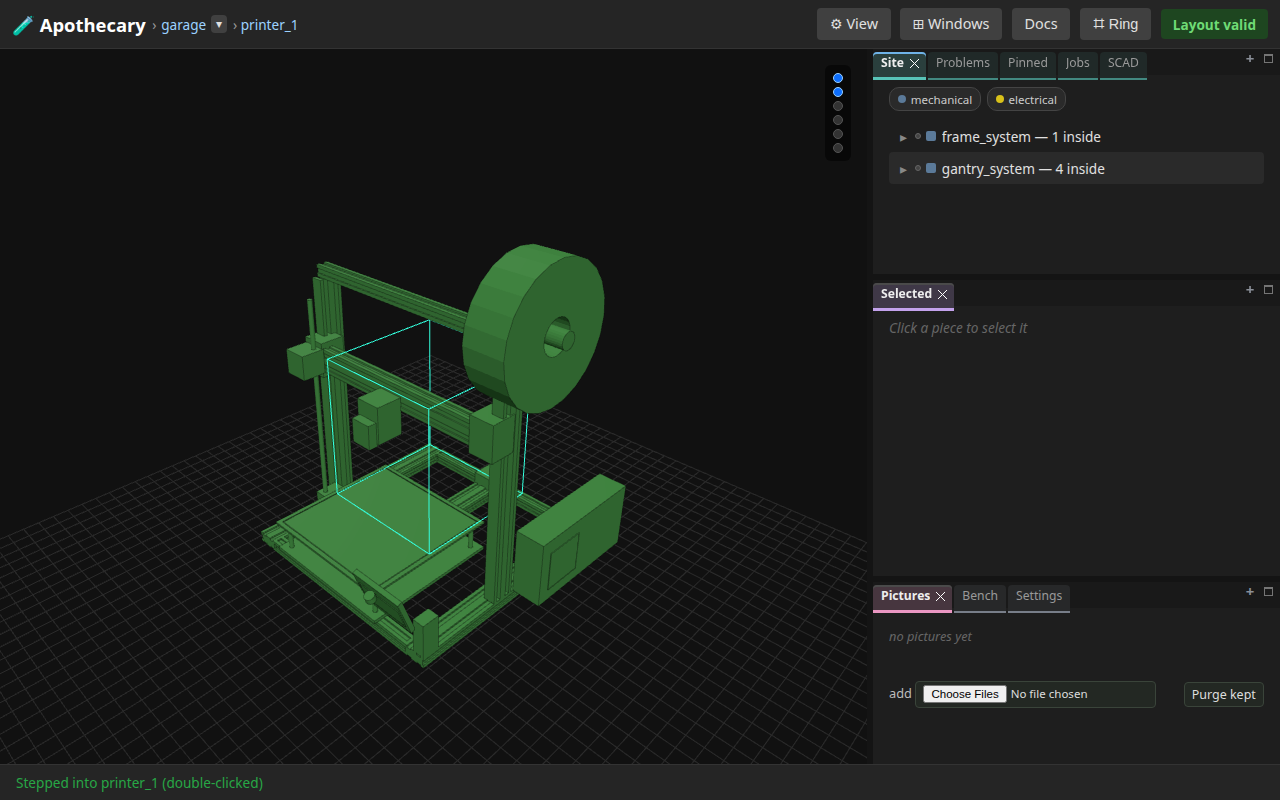
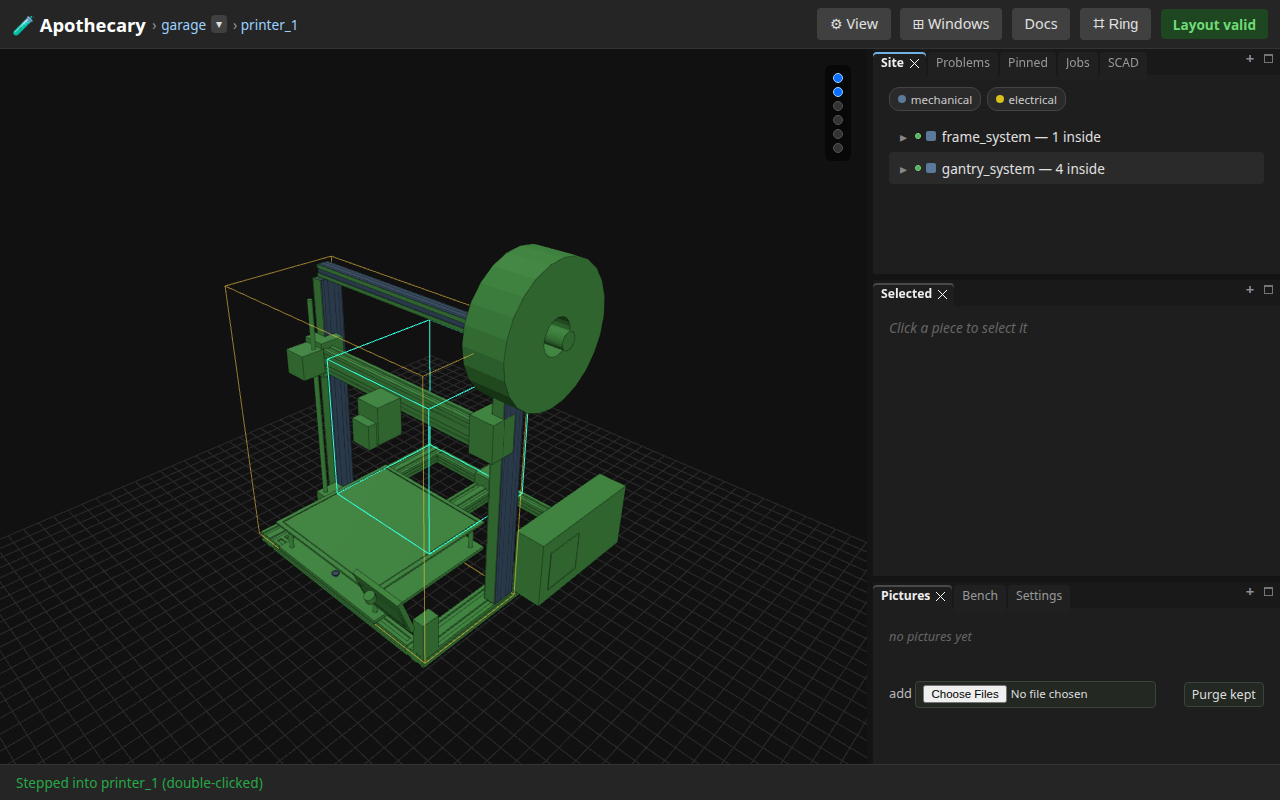
A machine stepped into draws its pieces inside its part, and a pick takes a piece before the part
Stepped into, a machine was its part alone: printer_1's frame_system and
gantry_system were Site's rows and nothing in the world, so a double-click on
the electronics box hit the part and said "Already inside printer_1", and the
category chips at that level changed nothing, since currentRenderNodes
returned the machine before looking at its children.

currentRenderNodes now draws the level's own part first, whole and without an
outline as before (isLevelsOwn), and then the focus's children as any level
draws them, honouring expandedCategories. The pieces sit inside the part's
envelope, so raycastPick lets the level's own part give way to a node of the
level further along the same ray; the part answers only where no piece is
behind it. Click, double-click, the middle-of-view step in, the drop and the
ring all ask raycastPick, so all of them follow. The view still frames the
machine's whole, since its pieces lie inside it. "Already inside" now names
the pieces a double-click takes instead of sending the reader to Site.

tests/e2e/test_viewer.py holds it. Stepped into each machine the level draws
the part, the same mesh the garage drew, and its two pieces, each outlined,
framed on the machine; a click where nothing of it is behind selects the
part. A new test stands at printer_1: the mechanical chip draws what its
pieces hold (the mainboard, the posts) with the part kept, and a double-click
where the printer's surface is nearest and frame_system is behind it steps
[…]

diff --git a/tests/e2e/test_viewer.py b/tests/e2e/test_viewer.py
@@ -251,15 +251,42 @@ MACHINES = [
 ]
 
 
+# Whether the view is framed on `key`'s whole: the point it turns about is the middle
+# of the piece's box.
+FRAMED_ON = """(key) => {
+    const v = window.fractalViewer, b = v.boundsFor(v.renderNodeByKey[key], 0);
+    const middle = v.sceneAt(...b.min.map((low, i) => (low + b.max[i]) / 2));
+    return middle.distanceTo(v.orbitControls.target) < 1;
+}"""
+
+# Where on the page the nearest surface under the pointer is `part`'s and the viewer's
+# pick answers `piece`, a piece behind it on the same ray: the first such point of a
+# grid over the canvas.
+BEHIND_THE_PART = """async ({ part, piece }) => {
+    const v = window.fractalViewer, r = v.canvas.getBoundingClientRect();
+    await v.waveDone;
+    for (let i = 1; i < 32; i++) for (let j = 1; j < 32; j++) {
+        const at = { clientX: r.left + (r.width * i) / 32, clientY: r.top + (r.height * j) / 32 };
+        if (document.elementFromPoint(at.clientX, at.clientY) !== v.canvas) continue;
+        const nearest = v.raycastHits(at)[0];
+        if (nearest && nearest.object.userData.key === part && v.raycastChild(at) === piece) {
+            return { x: at.clientX, y: at.clientY };
+        }
+    }
+    return null;
+}"""
+
+
 @pytest.mark.e2e
 @pytest.mark.parametrize("machine, part, pieces", MACHINES)
-def test_stepping_into_a_machine_draws_its_part_alone_and_whole(
+def test_stepping_into_a_machine_draws_its_part_whole_with_its_pieces_inside(
     page: Page, base_url: str, machine: str, part: str, pieces: list
 ):
     """A machine in a site is drawn as the part it names. Stepped into, that part is the
-    level: alone, with nothing else of the site and none of its pieces beside it, and
-    whole, the mesh the level above drew. Its pieces are Site's rows, each a step
-    further in, where what the piece holds is drawn and the machine is not."""
+    level's own piece: whole, the mesh the level above drew, framed, with nothing else
+    of the site beside it. Its pieces are drawn inside it, outlined as any piece with
+    pieces is, and are Site's rows, each a step further in, where what the piece holds
+    is drawn and the machine is not."""
     _open(page, f"{base_url}/viewer/sites/garage")
     body = page.evaluate(LEVEL)["drawn"][machine]
     assert not body["placeholder"], f"{machine} is drawn from {part}'s STL in the garage"
@@ -268,16 +295,20 @@ def test_stepping_into_a_machine_draws_its_part_alone_and_whole(
     page.locator("#selected-body .zoom-in-btn").click()
     expect(page.locator("#status")).to_contain_text(f"Stepped into {machine}")
     inside = page.evaluate(LEVEL)
+    keys = [f"{machine}.{piece}" for piece in pieces]
     assert inside["focus"] == machine
-    assert inside["drawn"] == {machine: body}, "the part alone, and the whole of it"
-    assert inside["outlines"] == [], "the level's own piece is set apart from nothing"
+    assert inside["drawn"][machine] == body, "the part whole, the mesh the level above drew"
+    assert sorted(inside["drawn"]) == sorted([machine, *keys]), "and its pieces, no more"
+    assert page.evaluate(FRAMED_ON, machine), "the view is framed on the machine's whole"
+    assert sorted(inside["outlines"]) == sorted(keys), "the level's own piece has no outline"
     assert inside["volumes"] == [machine], "its working volume is drawn in it"
-    assert inside["rows"] == [f"{machine}.{piece}" for piece in pieces]
+    assert inside["rows"] == keys
 
-    # The part is the piece in Selected once it is clicked, by the name of its part,
-    # with no way offered into the level it already is and no arrows to move it by.
+    # The part is the piece in Selected once it is clicked where no piece of it is
+    # behind, by the name of its part, with no way offered into the level it already
+    # is and no arrows to move it by.
     on_it = page.evaluate(ON_PIECE, machine)
-    assert on_it, f"{machine} is under the pointer somewhere in the view"
+    assert on_it, f"{machine} is under the pointer, nothing of it behind, somewhere in the view"
     page.mouse.click(on_it["x"], on_it["y"])
     assert page.evaluate(LEVEL)["selected"] == machine, "a click on the part selects it"
     selected = page.locator("#selected-body")
@@ -287,13 +318,15 @@ def test_stepping_into_a_machine_draws_its_part_alone_and_whole(
     expect(selected.locator(".detail-select")).to_have_count(0)
     assert page.evaluate(LEVEL)["arrows"] is None
 
-    # Stepping into it again goes nowhere, and says where its pieces are.
+    # Stepping into it again goes nowhere, and says which pieces a double-click takes.
     page.mouse.dblclick(on_it["x"], on_it["y"])
-    expect(page.locator("#status")).to_contain_text(f"Already inside {machine}")
+    status = page.locator("#status")
+    expect(status).to_contain_text(f"Already inside {machine}: a double-click on one of its")
+    expect(status).to_contain_text(", ".join(pieces))
     assert page.evaluate(LEVEL)["focus"] == machine
 
     # A piece, from its row: what it holds is the level, and the machine is not drawn.
-    piece = f"{machine}.{pieces[0]}"
+    piece = keys[0]
     page.locator(f"#contents-list .contents-item[data-path='{piece}']").dblclick()
     expect(page.locator("#status")).to_contain_text(f"Stepped into {piece}")
     deeper = page.evaluate(LEVEL)
@@ -302,15 +335,50 @@ def test_stepping_into_a_machine_draws_its_part_alone_and_whole(
 
 
 @pytest.mark.e2e
+def test_inside_a_machine_a_double_click_on_its_control_box_steps_into_it(
+    page: Page, base_url: str
+):
+    """Stepped into printer_1, its pieces are drawn inside its part, and a pick takes a
+    piece before the part around it: where the printer's own surface is nearest and
+    frame_system, the electronics box under the bed, is behind it on the same ray, a
+    double-click steps into frame_system. Site's category chips act there: mechanical,
+    the category of both its pieces, draws what each holds in its place, and the part
+    stays."""
+    _open(page, f"{base_url}/viewer/sites/garage?focus=printer_1")
+    pieces = ["printer_1.frame_system", "printer_1.gantry_system"]
+    assert sorted(page.evaluate(LEVEL)["drawn"]) == ["printer_1", *pieces]
+
+    chip = page.locator("#category-filters .category-chip", has_text="mechanical")
+    chip.click()
+    expect(page.locator("#category-filters .category-chip.active")).to_have_text("mechanical")
+    opened = page.evaluate(LEVEL)["drawn"]
+    assert "printer_1" in opened, "the level's own part stays"
+    assert "printer_1.frame_system.mainboard" in opened, opened
+    assert "printer_1.gantry_system.left_post" in opened, opened
+    assert not set(pieces) & set(opened), opened
+    chip.click()
+    expect(page.locator("#category-filters .category-chip.active")).to_have_count(0)
+    assert sorted(page.evaluate(LEVEL)["drawn"]) == ["printer_1", *pieces]
+
+    at = page.evaluate(BEHIND_THE_PART, {"part": "printer_1", "piece": pieces[0]})
+    assert at, "somewhere the printer's surface is nearest and its frame_system behind it"
+    page.mouse.dblclick(at["x"], at["y"])
+    expect(page.locator("#status")).to_contain_text(f"Stepped into {pieces[0]} (double-clicked)")
+    assert page.evaluate(LEVEL)["focus"] == pieces[0]
+
+
+@pytest.mark.e2e
 def test_a_link_into_a_machine_lands_on_its_part_selected(page: Page, base_url: str):
-    """`?focus=` on a machine arrives at its part, drawn whole and selected, so its rows
-    are in Selected without another click; it wears no move arrows, which belong to a
-    piece at the site's own level; and View's Detail, which stands a box or a dot in for
-    a piece with pieces inside, leaves the piece the level is for drawn in full."""
+    """`?focus=` on a machine arrives at its part, drawn whole and selected, its pieces
+    inside it, so its rows are in Selected without another click; it wears no move
+    arrows, which belong to a piece at the site's own level; and View's Detail, which
+    stands a box or a dot in for a piece with pieces inside, does so for its pieces and
+    leaves the piece the level is for drawn in full."""
     _open(page, f"{base_url}/viewer/sites/garage?focus=cnc_router")
     arrived = page.evaluate(LEVEL)
+    pieces = ["cnc_router.frame_system", "cnc_router.gantry_system"]
     assert arrived["selected"] == "cnc_router"
-    assert list(arrived["drawn"]) == ["cnc_router"]
+    assert sorted(arrived["drawn"]) == ["cnc_router", *pieces]
     assert not arrived["drawn"]["cnc_router"]["placeholder"]
     assert arrived["arrows"] is None
     part_row = page.locator("#selected-body span[title='The part this machine is drawn as']")
@@ -319,8 +387,10 @@ def test_a_link_into_a_machine_lands_on_its_part_selected(page: Page, base_url: 
     page.locator("#view-menu > summary").click()
     page.locator("#detail-mode").select_option("dot")
     dotted = page.evaluate(LEVEL)
-    assert dotted["drawn"] == arrived["drawn"], "the level's own piece is never a dot"
-    assert _viewer_state(page)["dots"] == 0
+    assert dotted["drawn"]["cnc_router"] == arrived["drawn"]["cnc_router"], (
+        "the level's own piece is never a dot"
+    )
+    assert _viewer_state(page)["dots"] == len(pieces), "its pieces are"
 
 
 @pytest.mark.e2e

diff --git a/tests/e2e/test_docs_bench_walkthrough.py b/tests/e2e/test_docs_bench_walkthrough.py
@@ -343,9 +343,9 @@ def test_the_bench_as_it_is(bench, walkthrough, tmp_path):
     story.shows(
         "Looking into a printer, the camera stays in the garage",
         "A camera is a piece of the site, drawn at the level its site is. Stepped into "
-        "the printer, the printer is its part, alone and whole, with its frame and its "
-        "gantry as Site's rows; neither the camera's badge nor its pyramid follows, and "
-        "stepping back out brings them back.",
+        "the printer, the printer is its part, whole, with its frame and its gantry "
+        "drawn inside it and listed in Site; neither the camera's badge nor its pyramid "
+        "follows, and stepping back out brings them back.",
     )
 
     # Back to the root with nothing selected: zooming out one level would select the

diff --git a/tests/e2e/test_the_universe.py b/tests/e2e/test_the_universe.py
@@ -244,7 +244,12 @@ def test_a_machine_in_a_site_reached_through_the_universe_is_drawn_as_its_part(
     said(page, "Stepped into cnc_router")
     inside = page.evaluate(LEVEL)
     assert inside["focus"] == "cnc_router"
-    assert inside["drawn"] == {"cnc_router": body}, "the part alone, and the whole of it"
+    assert inside["drawn"]["cnc_router"] == body, "the whole of the part"
+    assert sorted(inside["drawn"]) == [
+        "cnc_router",
+        "cnc_router.frame_system",
+        "cnc_router.gantry_system",
+    ], "its pieces inside it, and nothing else of the site"
     # Out again, twice: the garage's own level, then the universe.
     page.locator("#viewer-canvas").focus()
     page.keyboard.press("PageUp")

diff --git a/CHANGELOG.md b/CHANGELOG.md
@@ -35,7 +35,7 @@ change since 0.1.0: what is there now that was not, and what 0.1.0 had that is g
 - The router's bed reading is a table map of its own: Probe table on its Machine turns the spindle off, homes, and probes Z with the touch plate at each point of a grid inside the working area, in machine coordinates, and the map is kept, listed and laid over its table in the world where its points were probed, as a printer's reading is; a stored mesh stays a printer's to read. ([doc](docs/firmware.md#bed-leveling))
 - A machine is planned before its board is connected: a part says the kind of machine it is, and a machine with no board opens its Machine as its plan -- the part it makes, its slice or toolpath written and drawn over it -- kept and chosen whenever its Machine opens, and a cut part's ring offers Toolpath to a router with no board. ([doc](docs/firmware.md#a-machine-planned-before-its-board-is-connected))
 - Apothecary is the universe: the site `apothecary` holds every registered part as a leaf and every other site as one piece, drawn in miniature from its top-level pieces' extents; a step into a site's piece opens the site, and Page Up or Backspace at a site's own level goes to the universe. ([doc](docs/viewer.md#the-world))
-- A machine stepped into is its part, alone and whole: the router or a printer drawn as the part it names with its working volume, its pieces Site's rows there, each a step further in. ([doc](docs/viewer.md#the-world))
+- A machine stepped into is its part, whole, its pieces drawn inside it: the router or a printer drawn as the part it names with its working volume, a pick taking a piece before the part around it, so a double-click on the printer's electronics box steps into its frame, and the category chips act there. ([doc](docs/viewer.md#the-world))
 - A toolpath preview, one core for a print and a cut: `apothecary/preview` reads any G-code file into what the page draws, instantiated for a printer (layers, extruding and travel) and for a router (passes, cuts, plunges and rapids); the Print and Cut card's slider draws the chosen file's path in the world, a router's at its work zero; ⊞ Windows › Machine and the ring's Machine view open the selected machine's Machine and land on that path, framed; the slicer's bounds now read through it. ([doc](docs/toolpath-preview.md), [page](walkthrough/21-a-toolpath-previewed.md))
 - One page for two machines: the kinds' words in one module (`apothecary/static/machine_words.js`), one badge grammar for every board, a Machine section titled by the board's kind (a router's Cut), the Print and Cut card in the loop's order, a shorter Selected, the Machine's head in clusters, the Working space open on any machine with a board pinned and its hour in that machine's words and readings, and the page's palette in one sheet. ([plan](docs/plans/ui-refresh-2026-11-04.md))
 - A part through the subtractive loop: a part's wrapper may declare the cuts that make it from its stock (`parts/router_coupon`, on the router's table in the garage), `apothecary/cam` writes the router's toolpath from them in GRBL's dialect -- pockets, holes bored to the tool and said when smaller, the outline -- keeps and records it, the Cut card's Toolpath and the part's ring's offer it, a cut names the operation it is in, and the simulated router's trace is measured as cut against the design. ([doc](docs/cam.md), [page](walkthrough/20-a-part-through-the-router.md), [plan](docs/plans/subtractive-loop-2026-11-04.md))

diff --git a/docs/viewer.md b/docs/viewer.md
@@ -106,12 +106,16 @@ says which, and why. Stepping out lands on the piece left, selected. Inside a
 piece the world draws what it holds, not the piece: stepped into the workbench,
 its frame is drawn. A piece that holds nothing is drawn itself.
 
-**A machine is its part.** A piece drawn as a part it names, with pieces of
-its own inside it -- the router, a printer -- is drawn itself too: stepped
-into, its part stands alone and whole, with its working volume and its board's
-badge and nothing else of the site. What it holds is Site's rows there, each
-stepped into from its row (a double-click, or Selected's "⤵ Step into"), where
-the piece's own contents are drawn and the machine is not. A click on the part
+**A machine is its part, its pieces inside it.** A piece drawn as a part it
+names, with pieces of its own inside it -- the router, a printer -- is drawn
+itself too: stepped into, its part stands whole, with its working volume and
+its board's badge and nothing else of the site, and the view frames it. Its
+pieces are drawn inside it as any level draws its pieces -- outlined, under
+View's Detail, opened by Site's category chips -- and are Site's rows. A click,
+a double-click or a drop that meets the part and a piece of it on the same ray
+takes the piece, so a double-click on the printer's electronics box steps into
+its `frame_system`, where the piece's own contents are drawn and the machine
+is not; the part answers only where no piece is behind it. A click on the part
 selects the machine: its part, its Device line with the pin and what the board
 last said, and the pieces inside it by name. There it has no Detail and no
 "⤵ Step into", wears no move arrows, which are a piece's at the site's own
@@ -187,7 +191,7 @@ ring's View is, which adds **Fit**: frame the pieces at this level (Shift+F;
 |---|---|
 | Snap to grid | Snaps a dragged piece to a 50 mm grid (on at first) |
 | Detail: Full, Black box, Dot | How much of each compound piece to draw: its real geometry, its bounding box, or a marker. Leaves are always drawn in full, and so is a machine stepped into; Selected's Detail overrides it for one piece |
-| Outlines | Outlines each compound piece's whole extent, so a subassembly reads as one thing (on at first); a machine stepped into, the whole level, has none |
+| Outlines | Outlines each compound piece's whole extent, so a subassembly reads as one thing (on at first); a machine stepped into, the level's own piece, has none |
 | Select walls | A click in the world picks a wall again, until the page is left (off at first) |
 | Settings | Opens the Settings panel, its tab in front ([below](#settings)) |
 

diff --git a/walkthrough/02-the-bench-as-it-is.md b/walkthrough/02-the-bench-as-it-is.md
@@ -84,7 +84,7 @@ Added from the bench's own ring -- Camera, Add here -- a camera part stands abov
 
 ## 10. Looking into a printer, the camera stays in the garage
 
-A camera is a piece of the site, drawn at the level its site is. Stepped into the printer, the printer is its part, alone and whole, with its frame and its gantry as Site's rows; neither the camera's badge nor its pyramid follows, and stepping back out brings them back.
+A camera is a piece of the site, drawn at the level its site is. Stepped into the printer, the printer is its part, whole, with its frame and its gantry drawn inside it and listed in Site; neither the camera's badge nor its pyramid follows, and stepping back out brings them back.
 
 ![Looking into a printer, the camera stays in the garage](screenshots/02-10-looking-into-a-printer-the-camera-stays-in-the-gar.png)
 

diff --git a/todo.md b/todo.md
@@ -43,9 +43,6 @@ here: run `apothecary problems`.
   still found by its port's name; a family home step on a port another board's record names is refused
   once, with nothing sent, and works on the next try; two identical converters swapped in
   one socket read as one board. None of it has met the real router or the real state file.
-- A machine stepped into is its part alone: its pieces are reached from Site and not drawn
-  at its level, a double-click on the control box does not step into `frame_system`, and
-  the category chips at that level do nothing.
 - The Models window says none is trusted until `apothecary vision check` has passed
   (`apothecary/static/widgets/models.js`, quoted in `docs/models-checklist.md`);
   `apothecary vision` has `ask`, `off`, `on` and `status`.

diff --git a/docs/cnc.md b/docs/cnc.md
@@ -35,8 +35,8 @@ assumed); `cnc_router.gantry_system` is the gantry on the Y rails, its legs
 and cross beam, with `z_carriage_system` inside it, the X carriage plate, the
 Z plate, the clamp and the spindle in it, each placed from the part's own
 constants where the part draws them at its default axes. Stepped into, the
-router is its part, alone and whole, and the control box and the gantry are
-Site's rows there ([viewer.md](viewer.md#the-world)). `ROUTER_STATUSES` are
+router is its part, whole, with the control box and the gantry drawn inside
+it, each a double-click further in ([viewer.md](viewer.md#the-world)). `ROUTER_STATUSES` are
 the words the router's node takes: `idle`, `running`, `hold`, `alarm`,
 `offline` from its polls, and `maintenance` by hand.
 
